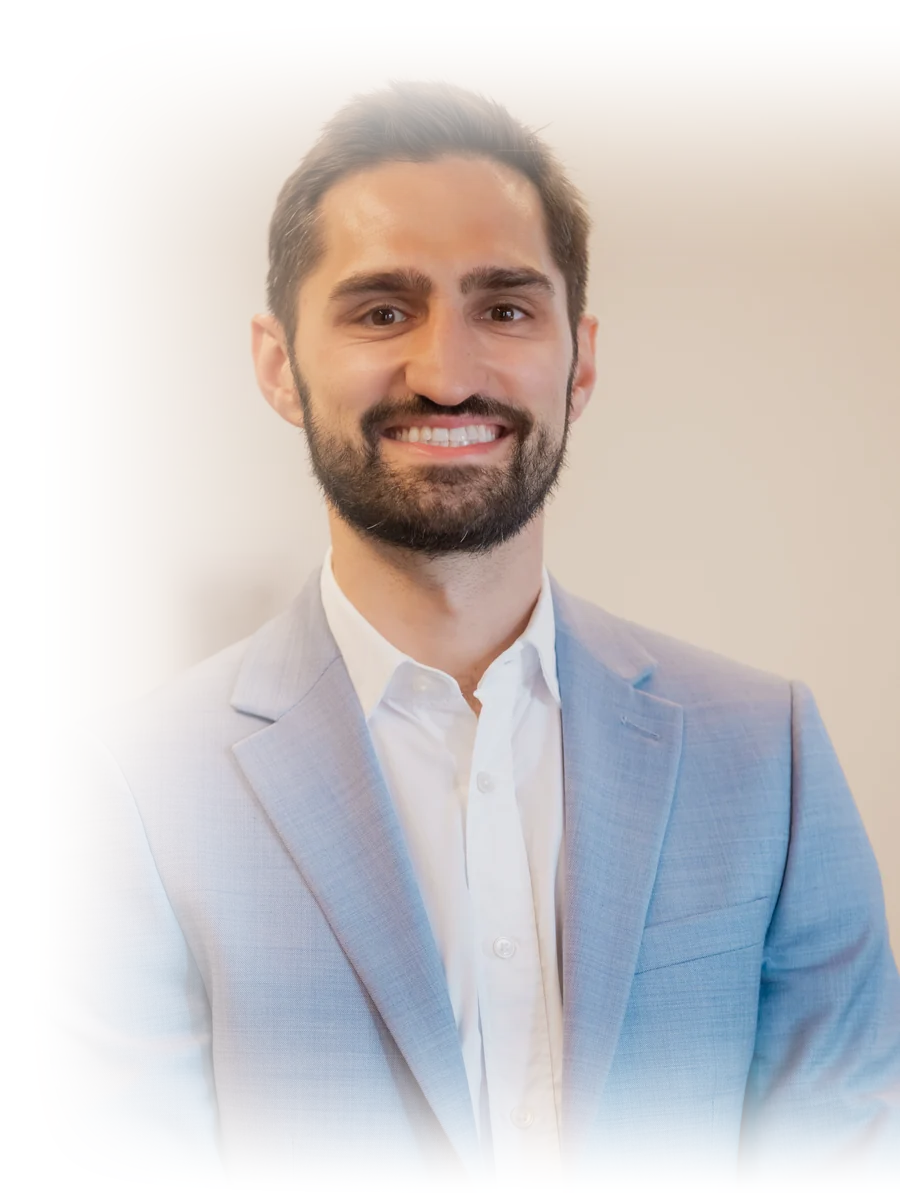
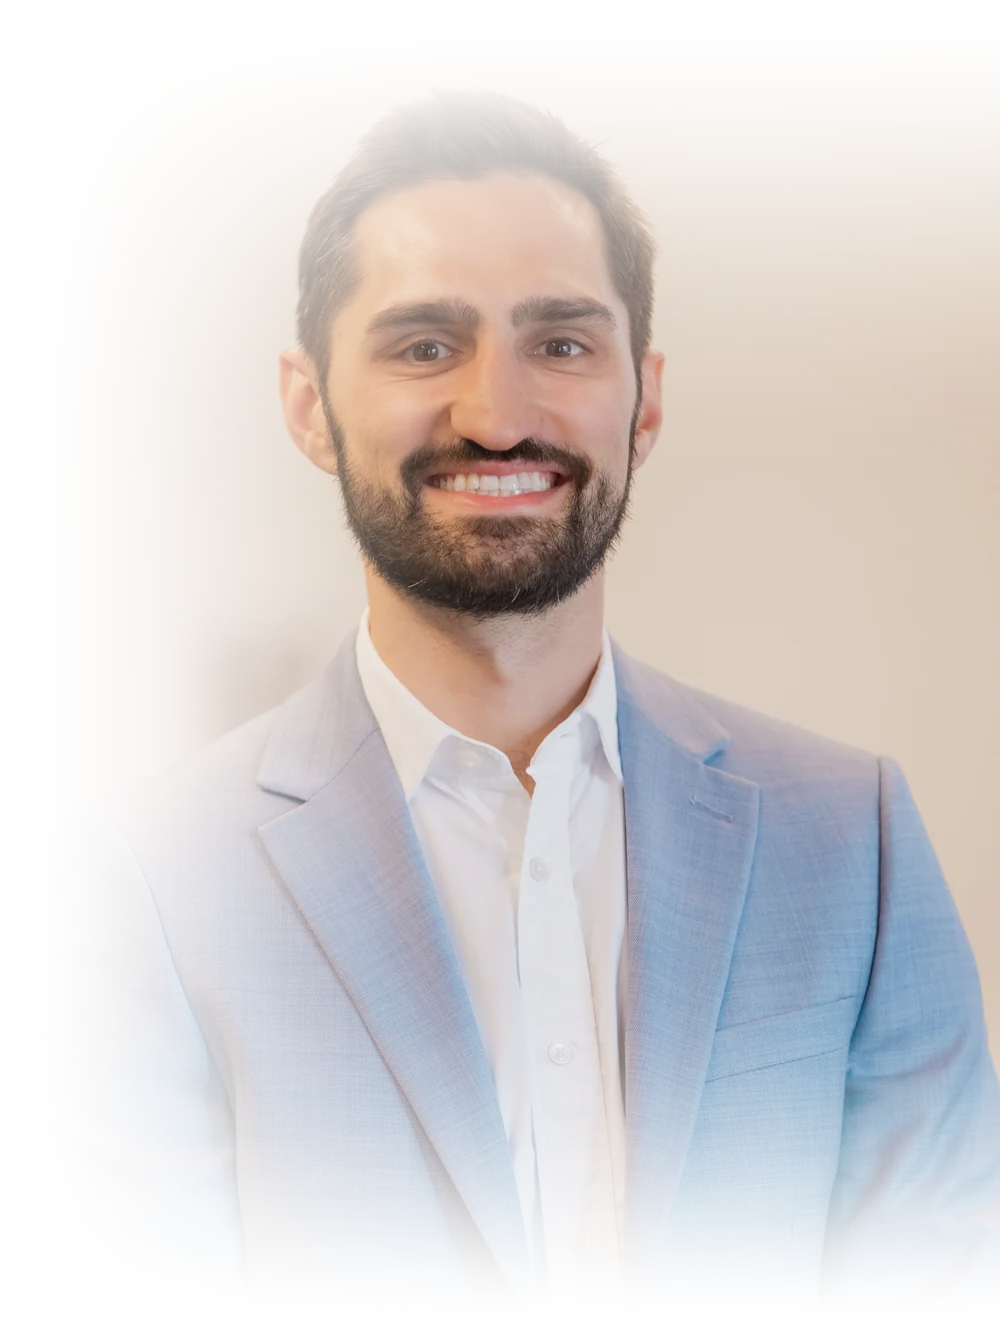
Scale the hero portrait back up, deepen the feather to match
The larger treatment blends better: at 124% the fade has more distance to
travel, so the transition reads as atmosphere rather than an edge. The
ramps are deepened to survive being scaled up and cropped (left 52%, top
36%, bottom 30%), and the frame shifted to 38% vertical so the top of the
head is not clipped. 120KB.

Changed region(s): [[0.28, 0.0617, 1.0, 0.3083], [0.5911, 0.74, 1.0, 0.9558], [0.1867, 0.7708, 0.56, 0.9558]]

diff --git a/src/styles/global.css b/src/styles/global.css
@@ -169,8 +169,8 @@ body { font-family: var(--font-body); }
     linear-gradient(to right, #080F16 0%, rgba(8,15,22,0.92) 26%, rgba(8,15,22,0.45) 48%, rgba(8,15,22,0.10) 70%, rgba(8,15,22,0) 100%),
     url('/hero-figure.webp');
   background-repeat: no-repeat, no-repeat;
-  background-position: center, right bottom;
-  background-size: cover, auto 100%;
+  background-position: center, right 38%;
+  background-size: cover, auto 124%;
 }
 @media (max-width: 900px) {
   .hero-c3 {
